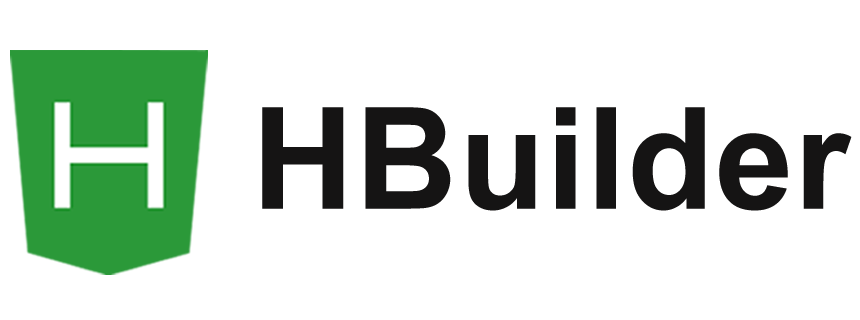
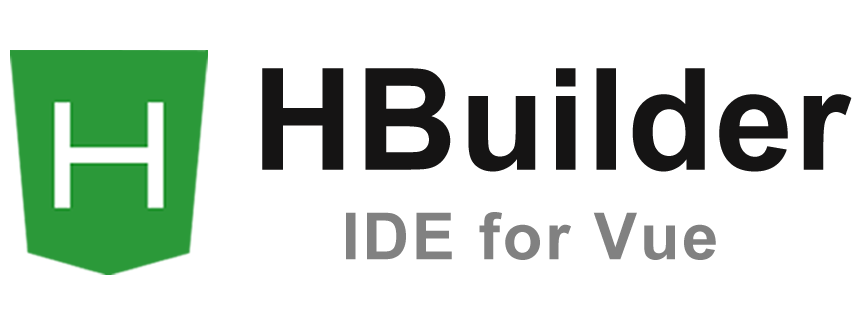
chore: update sponsor image

Changed region(s): [[0.3023, 0.1875, 0.9977, 0.8125], [0.4535, 0.375, 0.4837, 0.4062]]

diff --git a/src/.vuepress/theme/data/patreon-sponsors.js b/src/.vuepress/theme/data/patreon-sponsors.js
@@ -9,8 +9,7 @@ export default {
     {
       "url": "https://www.dcloud.io/hbuilderx.html?hmsr=vue-en&hmpl=&hmcu=&hmkw=&hmci=",
       "img": "hbuilder.png",
-      "name": "HBuilder",
-      "description": "An IDE for Vue"
+      "name": "HBuilder"
     }
   ],
   "platinum_sponsors": [
